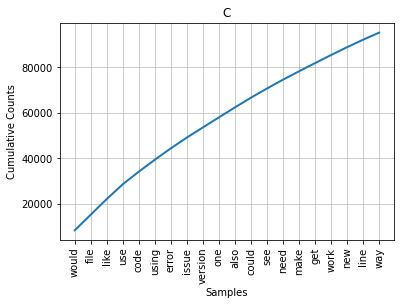
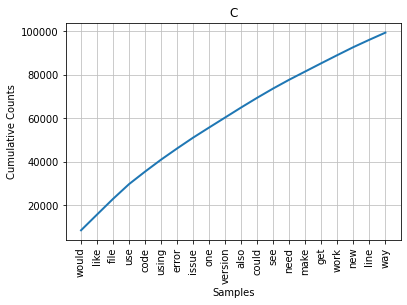
Update all charts and descriptions to newests data

Changed region(s): [[0.0299, 0.059, 0.9875, 0.9738], [0.5387, 0.0295, 0.5985, 0.059]]

diff --git a/report/report.tex b/report/report.tex
@@ -60,7 +60,7 @@ Every issue will be assigned a complexity/readability score based on industry-st
 
 \subsection{Scraping procedure} \label{scraping_procedure}
 
-Using the official GitHub API we first fetch a list of users which we want to examine. To improve the quality of issues which we will be later studying, we made an assumption that GitHub users with more followers in general write issues of higher quality. We intuitively correlate higher followers count with a greater professionalism and higher activity on the platform. For each programming language a list of top 1000 (in terms of amount of followers) users with at least 170 followers\footnote{170 followers was chosen as the cutoff because it was the argmax such that all four programming languages have at least 1000 users each} was downloaded. An additional reason as to why the previously mentioned subset of languages was chosen is that these (unlike other languages which we had wished to investigate, such as purely scientific programming languages) do have a 1000 users with a reasonable amount of followers. Only personal accounts where taken into account, so organizations were filtered out since they represent more than a single person. A user was considered to be a $\mathbf P$ language programmer if majority of their repositories are written in $\mathbf P$\footnote{\href{https://docs.github.com/en/search-github/searching-on-github/searching-users\#search-by-repository-language}{Quoting the GitHub documentation}: "{\it \code{language:javascript} users [...] with a majority of their repositories written in JavaScript.}"}.
+Using the official GitHub API we first fetch a list of users which we want to examine. To improve the quality of issues which we will be later studying, we made an assumption that GitHub users with more followers in general write issues of higher quality. We intuitively correlate higher followers count with a greater professionalism and higher activity on the platform. For each programming language a list of top 1000 (in terms of amount of followers) users with at least 170 followers\footnote{170 followers was chosen as the cutoff because it was the argmax such that all four programming languages have at least 1000 users each} was downloaded. An additional reason as to why the previously mentioned subset of languages was chosen is that these (unlike other languages which we had wished to investigate, such as purely scientific programming languages) do have a 1000 users with a reasonable amount of followers. Only personal accounts where taken into account, so organizations were filtered out since they represent more than a single person. A user was considered to be a $\mathbf P$ language programmer if majority of their repositories are written in $\mathbf P$\footnote{\href{https://docs.github.com/en/search-github/searching-on-github/searching-users\#search-by-repository-language}{Quoting the GitHub documentation}: "{\it \code{language:javascript} users [...] with a majority of their repositories written in JavaScript.}"}. Thus it is important to remember that a single developer could be possibly writing in other languages as well, or even could be overlapping with other classes we are investigating. It is rare that a developer knows and uses only a single programming language.
 
 Afterwards, once we have a list of users (in total 4000 users) we proceed to fetching issues written by them. Top 100 issues created by a given user were downloaded. Only the body of the posted issue is saved, the thread that follows is ignored. Issues are ranked by the amount of interactions\footnote{An interaction consists of either a comment or a reaction} that they have received, thus top 100 issues refer to top 100 most active issues. Here, we make a similar assumption that more active issues correlate with a higher quality of natural language, for instance an RFC with naturally generates more traffic.
 
@@ -110,11 +110,11 @@ After scrapping the data, we are planning to perform following operations in ord
 
     \item Frequency of passive sentences -- in order to identify passive sentences we will use Part Of Speech tagging (POS). In English, a passive sentence can be defined by the place of the verb in the sentence and the form of this verb. We suspect the data to have high frequency of passive sentences, as it describes development issues.
 
-    \item Flesh-Kincaid Grade Level -- by evaluating the Flesh-Kincaid grade level, we can determine whether the text is readable to an average, non-developer person. It measures the length of the sentences and syllables per words, which indicated the easy to read or not. We expect developers of more complex programming languages to write harder to read issue descriptions.
+    \item Flesh-Kincaid Grade Level -- Flesch-Kincaid grade is an objective numerical description of how hard a passage is to read in the English language. The final score indicates the US education grade level, thus higher score means a more advanced usage of the language. By evaluating the grade level, we can determine the whether the text is readable to an average, non-developer person.
 
           \[0.39\left(\frac{\text{total words}}{\text{total sentences}}\right) + 11.8\left(\frac{\text{total syllables}}{\text{total words}}\right) - 15.59\]
 
-    \item Flesh readability score -- similarly to Flesh-Kincaid Grade Level, this score is used to measure level of difficulty when reading a text. We compute the score as follows:
+    \item Flesh readability score -- similarly to Flesh-Kincaid Grade Level, the Flesch reading score quantifies the ease of reading of a passage. Higher score indicates that the material is easier to read. We compute the score as follows:
 
           \[206.835 - 1.015\left(\frac{\text{total words}}{\text{total sentences}}\right) - 84.6\left(\frac{\text{total syllables}}{\text{total words}}\right)\]
 \end{enumerate}
@@ -122,11 +122,13 @@ After scrapping the data, we are planning to perform following operations in ord
 We hope that after obtaining this data, there will be interesting conclusions that there exists dependency between a developer's primary programming language and the natural language he or she uses when describing issues on GitHub.
 
 \section{Results}
+
 \subsection{Basic text analysis}
+
 \begin{enumerate}
     \item Average text length
 
-          This graph presents average length of an issue description. We can observe that this value is similar for every analyzed language.
+          This graph presents average length (in terms of words) of an issue description. We can observe that this value is similar for every analyzed class. Here C has the smallest average of 76 words, and Go has the largest with 81.5 words.
 
 
           \begin{figure}[H]
@@ -136,7 +138,7 @@ We hope that after obtaining this data, there will be interesting conclusions th
 
     \item Average lexical diversity of a single issue
 
-          This value is the average lexical diversity of a single issue. This value is obtained by dividing the set of tokens over the number of words in a single issue. The value is then averaged for each language. We can observe that this issue is similar among every language.
+          This value is the average lexical diversity of a single issue. This value is obtained by dividing the cardinality of the set of all normalized words by the total number of words in a single issue. The value is then averaged for each class. We can observe no meaningful differences.
 
           \begin{figure}[H]
               \includegraphics[width=8cm]{lex_div_single.png}
@@ -145,7 +147,7 @@ We hope that after obtaining this data, there will be interesting conclusions th
 
     \item Total lexical diversity
 
-          This value is the lexical diversity of all issues among the language. It is obtained by dividing set of tokens over number of all words in all issues. We can see that the lexical diversity is small for every language, which means all of the programmers write similar issue descriptions. However, C programmers tend to use the most diverse descriptions.
+          This value is the lexical diversity of all issues among the language. It is obtained by dividing the cardinality of the set of normalized words by the total number among all words in all issues per class. Here the situation is different, C shows an almost 1.5\% greater lexical diversity than Javascript and Golang. This could be due to the fact that C discussions often involve mentions of more cryptic library names, compiler flags, syscalls, etc. On the other hand, in the Golang and Javascript ecosystem things are often named using the natural language and thus blending in more uniformly into English which then do not increase the lexical diversity.
 
           \begin{figure}[H]
               \includegraphics[width=8cm]{lex_div_total.png}
@@ -154,16 +156,16 @@ We hope that after obtaining this data, there will be interesting conclusions th
 
     \item Average word length
 
-          This is the average word length for every language. We can observe that this value is similar among all languages.
+          This is the average word length for every language. We can observe that this value is similar among all classes. C and Golang show a higher average, but the difference is too small to have any statistical significance. The average of slightly above 4 aligns with the english average of 4.7 \cite{letterfreq}.
 
           \begin{figure}[H]
               \includegraphics[width=8cm]{word_len.png}
               \centering
           \end{figure}
 
-    \item Percentage of words over 10 characters
+    \item Fraction of words over some longer length
 
-          Here is the percentage of words over 10 characters used in all issue descriptions among all languages. We can observe that all the programmers use long words with similar frequency.
+          Here is the fraction of words over $\{8, 9, 10, 11\}$ characters long used in all issue descriptions among all languages. For the tested lengths, Javascript shows a lower percentage of longer words than other classes. C and Go equally exert a higher frequency of longer words compared to other classes.
 
           \begin{figure}[H]
               \includegraphics[width=8cm]{long_words.png}
@@ -173,6 +175,7 @@ We hope that after obtaining this data, there will be interesting conclusions th
 \end{enumerate}
 
 \subsection{Frequency distributions}
+
 In this section, we present the frequency distribution of tokens in the text. We can see the most common words used, as well as the cumulative value of this words.
 
 \begin{enumerate}
@@ -200,7 +203,7 @@ In this section, we present the frequency distribution of tokens in the text. We
           In JavaScript, the most common words are would, like, use, using, could. Given 3 700 000 tokens in the whole text, top 20 words make up to over 40\% of the whole data.
 
           \begin{figure}[H]
-              \includegraphics[width=8cm]{freq_java.png}
+              \includegraphics[width=8cm]{freq_Javascript.png}
               \centering
           \end{figure}
 
@@ -216,7 +219,51 @@ In this section, we present the frequency distribution of tokens in the text. We
 
 \end{enumerate}
 
-We can observe that among all languages, issue comments contain variations of words would and use. The most informative feature is that C programmers use word "{\it file}" a lot, probably to low-level file access provided by C. Golang programmers use word "{\it go}" a lot, which may come from the language name.
+We can observe that among all languages, issue comments contain variations of words \emph{would} and \emph{use}. We considered adding more stop words, but new common words kept surfacing which put us back to where we started. The most informative feature is that the word "\emph{file}" appears much less often in issues posted by Javascript developers in contrast to it being mentioned very often by C developers. This reflects the nature of the programming languages where C code manipulates files very often while Javascript being constrained to the browser does not have direct access to files.
+
+Another interesting word which was investigated closely is the common appearance of \emph{go} in issues posted by golang developers. Displaying the concordance of the word \emph{go} within issues from the Golang class revealed something interesting,
+
+\begin{verbatim}
+Displaying 25 of 11503 matches:
+nning tests works running tests godep go test failes find easy way send health
+ders happy work think right direction go currently supported dns provider goog
+s menu opened file press debug panels go version download etcd go mod shows er
+debug panels go version download etcd go mod shows error package becomed inter
+ internal etcd use package vendor use go module imported etcd error thrown ope
+o failed valid threw together running go mac needs repl getstreamstohost port 
+t many cases gjson makes use standard go package functions carefully uses help
+usage also important measures compare go web frameworks add prometheus monitor
+kqueue syscalls rather using standard go net package works similar manner libu
+ goal project create server framework go performs par redis haproxy packet han
+ling hope use foundation future proxy go bunch stuff support write rpcx servic
+ally macbook pro ghz intel core using go commands currently nearby command sup
+rocess see hi nice work porting gjson go rust creator maintainer noticed chose
+n use program relied mac uuid upgrade go cause big problem config get watch re
+url routers dynamic load need compile go file like revel format like last beeg
+ibrary may vendor tag release removed go build fail reproduce expected behavio
+uild fail reproduce expected behavior go build success screenshots applicable 
+chbase admin ui gotests makes writing go tests easy golang commandline tool ge
+ies test files automatically imported go go tool managing go source code usage
+ test files automatically imported go go tool managing go source code usage co
+atically imported go go tool managing go source code usage commands gor new do
+kage found relative path think things go much better project may become like p
+ch better project may become like pre go version go version serving peak load 
+roject may become like pre go version go version serving peak load system crea
+roject super convenience user develop go project bee sample download run sampl
+\end{verbatim}
+
+namely many of them are referring to the \href{https://pkg.go.dev/cmd/go}{Golang CLI tool} for compiling, linting, testing, etc. code. To confirm our suspicion all bigrams containing \emph{go} as the first token were examined. We noted how many times the second word in these bigrams is a Golang CLI subcommand.
+
+\begin{figure}[H]
+    \centering
+    \includegraphics[width=8cm]{go_occ.png}
+    \caption{Examined bigrams starting with \emph{go} and ending with a golang CLI subcommand. Also total occurrences are shown with the orange line.}
+    \label{fig:go-occ}
+\end{figure}
+
+One can see (Fig. \ref{fig:go-occ}) that Go demonstrates a noticeable difference, which explains the often usage of the word \emph{go} by golang developers. Additionally, golang has a language keyword \texttt{go} which runs a function concurrently. This function is at the core of Golang, and is very likely to be discussed often by its developers.
+
+It is interesting to see that even though the usage of the word \emph{go} by C developers is much rarer than by Golang developers, a big chunk of the occurrences (20\%) are in the context of a Golang CLI subcommand. To verify that the concordance of the word \emph{go} in the C class was checked. Mentions of \texttt{gccgo} and \texttt{cgo} can be noticed. These are respectively the GNU Golang compiler and the C interface for Golang programs. It would seem, that C developers are also Golang developers thus the increase use of the word go in the context of the CLI tool.
 
 \subsection{Frequency of passive sentences}
 
@@ -229,7 +276,8 @@ As expected, the frequency of passive sentences is high for all languages (in co
 
 \subsection{Flesch readability score}
 
-We can see that all of the languages fall into 60-70 interval, which leads them to be classified as easily understood by 13- to 15-year-old students. This score takes into account number of syllables per word and sentence length, which, as established earlier, was not high in most cases.
+In our case, C and Go developers show a lower score than Python and Javascript. However all classes would be still classified in the 60-70 range, described as {\it Plain English. Easily understood by 13- to 15-year-old students} \cite{flesch}. This score takes into account number of syllables per word and sentence length, which, as established earlier, was not high in most cases.
+
 
 \begin{figure}[H]
     \includegraphics[width=8cm]{flesch.png}
@@ -238,12 +286,36 @@ We can see that all of the languages fall into 60-70 interval, which leads them 
 
 \subsection{Flesch-Kincaid grade level}
 
-In this case, all languages scored below 10, which makes them extremely difficult to read, understood only by university graduates. However this metric also takes into account number of words and syllables per sentence, it is much different than the previous Flesch metric. However, in most cases any text has higher Flesch reading score than Flesch-Kincaid grade level.
+In this case, all languages scored below 9. Similarly to the reading score, both C and Go issues rank higher therefore are deemed to be harder to understand.
 
 \begin{figure}[H]
     \includegraphics[width=8cm]{flesh_kincaid.png}
     \centering
 \end{figure}
+
+\subsection{Sentiment analysis}
+
+Using NLTK's pretrained sentiment analyzer called VADER, each issue is assigned the compound sentiment intensity (in range $[-1; 1]$ where -1 represents the negative polarity, and +1 the positive one).
+
+\begin{figure}[H]
+    \centering
+    \includegraphics[width=8cm]{sentiment.png}
+\end{figure}
+
+C and Go issues exhibit a more negative sentiment. Since these languages are much more lower level compared to the other two, then we can expected them to be more frustrating which in turn causes the anger to be transferred onto GitHub issues. Additionally, C issues show the smallest total mean for the sentiment intensity, making it on average the most negative class of the four.
+
+\subsection{Wordcloud}
+
+For eye-candy purposes a wordcloud is constructed for each class with redacted common stopwords.
+
+\begin{figure}[H]
+    \centering
+    \includegraphics[width=\textwidth]{wordcloud.png}
+    \caption{Wordclouds of all issues concatenated per class masked by the class language logo}
+\end{figure}
+
+No meaningful conclusions can be drawn from this. The only thing that caught our eye is the large \emph{error} word in the golang wordcloud. Possibly attributed to error being a first-party type in Golang\footnote{\url{https://pkg.go.dev/errors}}.
+
 
 \section{Attachments} \label{attachments}
 
@@ -252,5 +324,13 @@ In this case, all languages scored below 10, which makes them extremely difficul
     \item %DATA_CLEANER_ZIP%
 \end{enumerate}
 
+
+\begin{thebibliography}{9}
+    \bibitem{letterfreq}
+    Peter Norvig (2012): \emph{English Letter Frequency Counts: Mayzner Revisited} \url{http://norvig.com/mayzner.html}
+
+    \bibitem{flesch}
+    Rudolf Flesch (1979): \emph{How to Write Plain English: A Book for Lawyers and Consumers}
+\end{thebibliography}
 
 \end{document}
